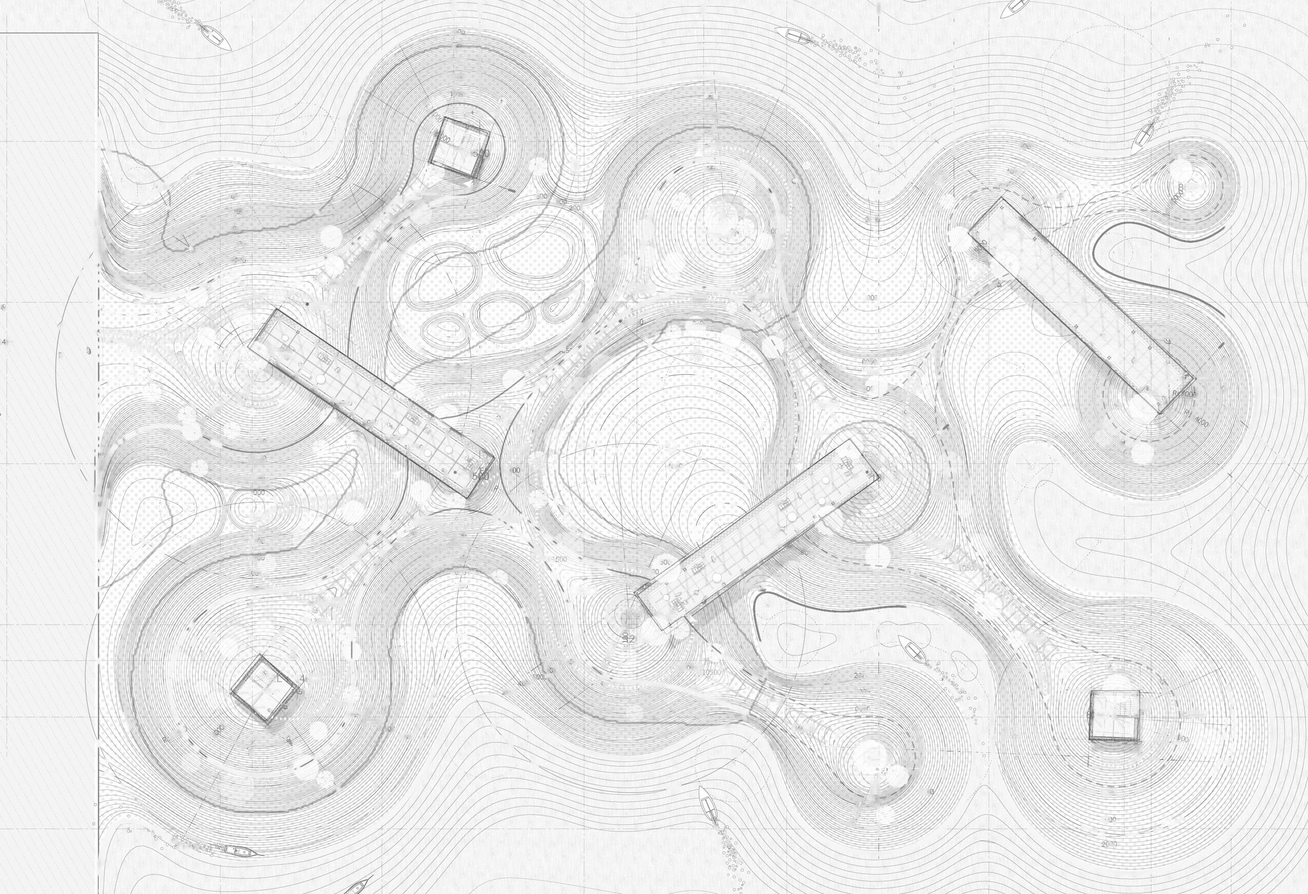
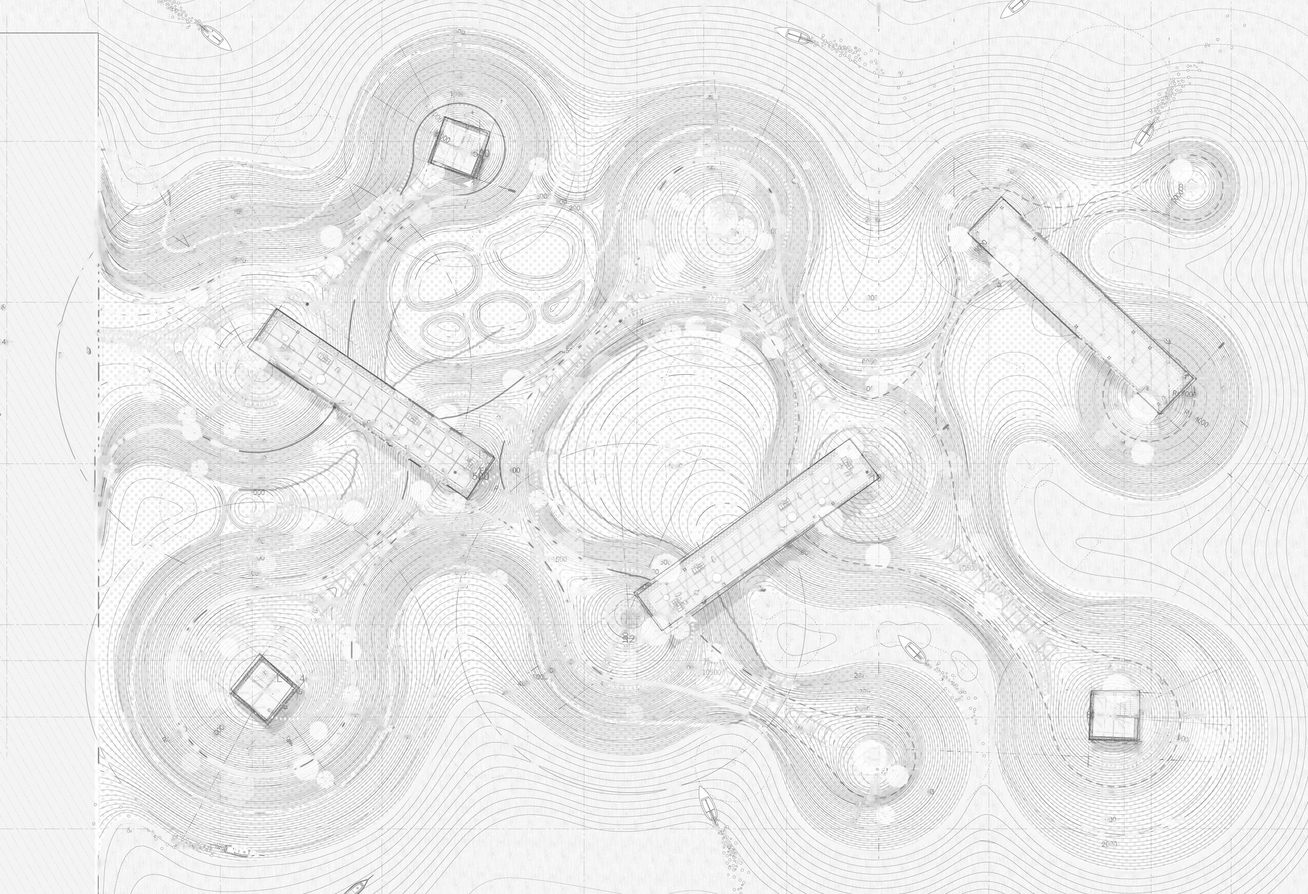
핀 #126 (RE:TIDE Twelve Mounds): 시뮬레이션 빼고 정지 그림으로 · 핀 #127–129 (수위 평면): 남은 진한 선 지움 — 두께 3px 넘는 긴 선만 골라 주변 바탕으로 메우고(두 번, 연한 굵은 선·진한 가는 선), 파빌리온은 막대·정사각 모양대로 보호. 원본은 scratchpad dry-bak2

diff --git a/assets/js/data.js b/assets/js/data.js
@@ -225,7 +225,7 @@ const SITE = {
       { heading: "Tide — Spring and Neap", text: "The moon's 12.42 h and the sun's 12.00 h waves fall in and out of step every 14.77 days — 705 high waters a year, the range swelling from 3.11 m at neap to 8.65 m at spring and 9.62 m at most. Their bands set the plan zones: always dry, wet near spring, wet every day, always wet.", images: [], widget: "springneap" },
       { pair: true, heading: "Tide — One Tide as a Dial", text: "A low-water stand 19.1 % of the year, B flood 28.9 %, C high-water stand 20.5 %, D ebb 31.4 % — still water four times a day.", images: [], widget: "dial" },
       { heading: "Tide — Twelfths and the Sine", text: "h(t) = Z₀ + A cos(2πt / T − φ), Z₀ +4.75 m, T 12 h 25 min: hour by hour the water rises 1, 2, 3, 3, 2 and 1 twelfths of its range, as the measured tide does; the 9 m section is cut in these layers.", widget: "sine", images: [] },
-      { heading: "Twelve Mounds, One Tissue", big: true, text: "Mounds on the eddies, paths on tangent arcs, a reef hollowed below and platforms on the crowns. Programs sit on the mounds and open and close with the tide.", images: [{sim: "mounds", src: "assets/img/re-tide/twelve-mounds.jpg", caption: "Twelve mounds, one tissue — the long pavilions and lookout towers lifted off their mounds", r: 1.678, tags: [[13,10.3,"Library","c","lv"],[52.9,4.3,"Lookout tower T1","","lv"],[70.8,2.6,"Water sports pavilion","r","lv"],[42.7,36,"Stage pavilion","r","lv"],[11.3,48,"Lookout tower T2","r","lv"],[86.7,51.5,"Lookout tower T3","","lv"]]}] },
+      { heading: "Twelve Mounds, One Tissue", big: true, text: "Mounds on the eddies, paths on tangent arcs, a reef hollowed below and platforms on the crowns. Programs sit on the mounds and open and close with the tide.", images: [{src: "assets/img/re-tide/twelve-mounds.jpg", caption: "Twelve mounds, one tissue — the long pavilions and lookout towers lifted off their mounds", r: 1.678, tags: [[13,10.3,"Library","c","lv"],[52.9,4.3,"Lookout tower T1","","lv"],[70.8,2.6,"Water sports pavilion","r","lv"],[42.7,36,"Stage pavilion","r","lv"],[11.3,48,"Lookout tower T2","r","lv"],[86.7,51.5,"Lookout tower T3","","lv"]]}] },
       { heading: "Flow Layers", text: "Five layers, 21 programs, 58 links: strips from the low outer edge to the high inner ground, each carrying its own programs.", images: [], widget: "flow" },
       { heading: "Rising Water — Simulation", big: true, // 핀 #32: 평면·단면을 위아래로 크게
         text: "One site at six water levels — the order in which the mounds become islands and go under. White is walkable ground joined to the pier, hatching is ground reached only over a long pavilion, dots are islands cut off by the sea, and a dashed line marks a mound already under water. Drag the bar or press play to run the water up and down.", images: [], sim: { r: 1.462, flood: "assets/img/re-tide/water-flood.png", frames: [
